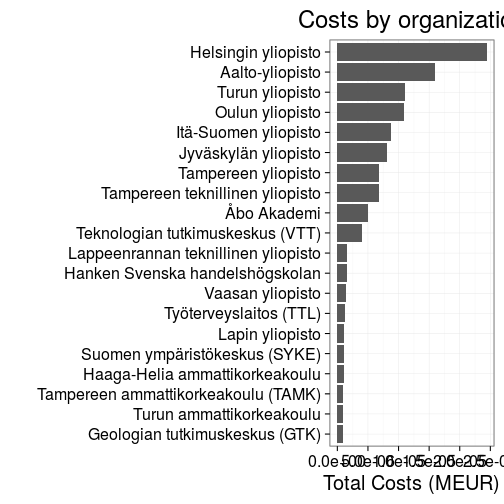
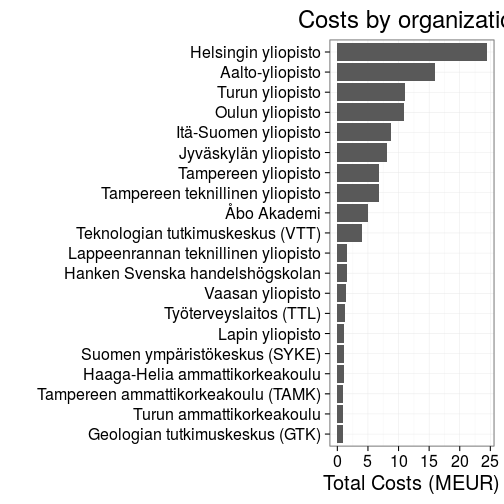
ok

Changed region(s): [[0.5952, 0.8929, 1.0, 0.9524]]

diff --git a/20160610/foi.md b/20160610/foi.md
@@ -16,12 +16,7 @@ FOI request
 
 ### Total costs by organization 2010-2015
 
-
-```
-## Warning: Removed 16 rows containing missing values (position_stack).
-```
-
-<img src="figure/foi-totalcosts-1.png" title="plot of chunk foi-totalcosts" alt="plot of chunk foi-totalcosts" width="300px" /><img src="figure/foi-totalcosts-2.png" title="plot of chunk foi-totalcosts" alt="plot of chunk foi-totalcosts" width="300px" /><img src="figure/foi-totalcosts-3.png" title="plot of chunk foi-totalcosts" alt="plot of chunk foi-totalcosts" width="300px" /><img src="figure/foi-totalcosts-4.png" title="plot of chunk foi-totalcosts" alt="plot of chunk foi-totalcosts" width="300px" /><img src="figure/foi-totalcosts-5.png" title="plot of chunk foi-totalcosts" alt="plot of chunk foi-totalcosts" width="300px" />
+<img src="figure/foi-totalcosts-1.png" title="plot of chunk foi-totalcosts" alt="plot of chunk foi-totalcosts" width="400px" /><img src="figure/foi-totalcosts-2.png" title="plot of chunk foi-totalcosts" alt="plot of chunk foi-totalcosts" width="400px" /><img src="figure/foi-totalcosts-3.png" title="plot of chunk foi-totalcosts" alt="plot of chunk foi-totalcosts" width="400px" /><img src="figure/foi-totalcosts-4.png" title="plot of chunk foi-totalcosts" alt="plot of chunk foi-totalcosts" width="400px" /><img src="figure/foi-totalcosts-5.png" title="plot of chunk foi-totalcosts" alt="plot of chunk foi-totalcosts" width="400px" />
 
  * [Total costs by organization (complete table)](table/cost_by_organization.csv).
  * [Total costs by publisher (complete table)](table/cost_by_publisher.csv).
